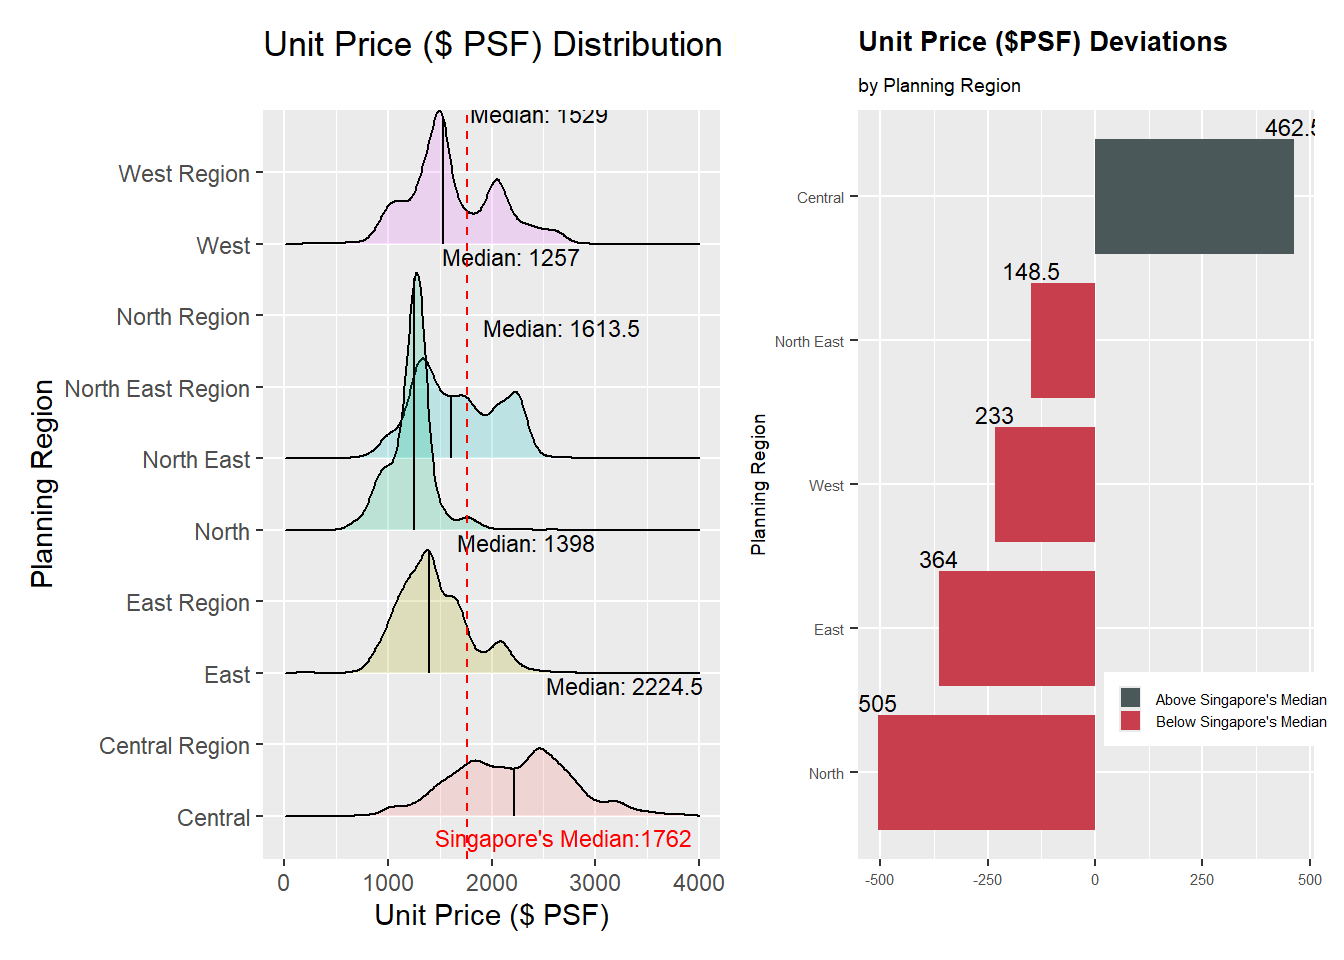
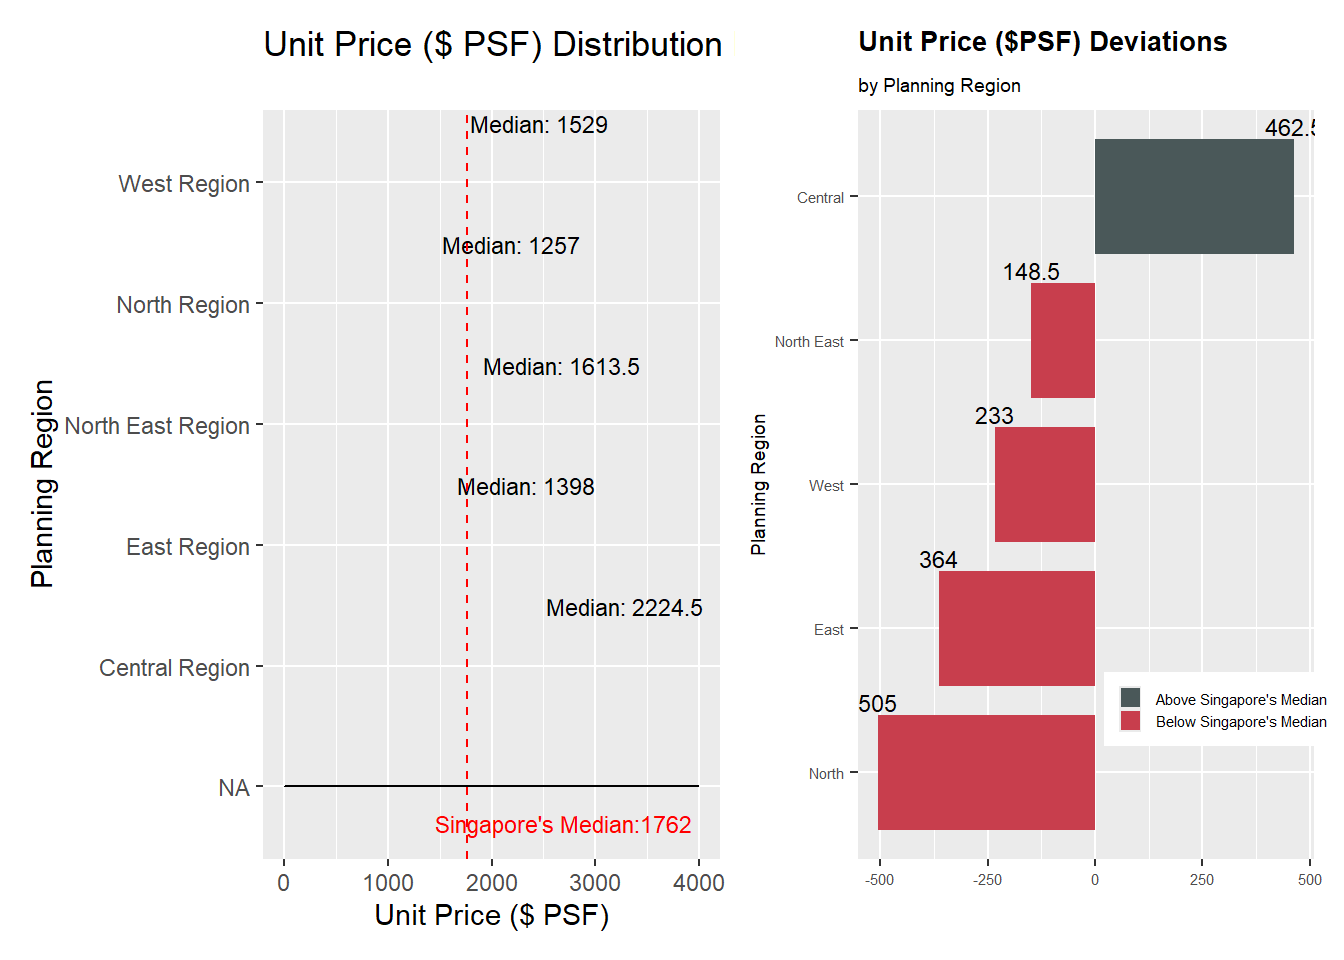
commit

diff --git a/_site/Take-home Exercise/Take-home_Ex02/Take-home_Ex02.html b/_site/Take-home Exercise/Take-home_Ex02/Take-home_Ex02.html
@@ -573,7 +573,7 @@ pre > code.sourceCode > span > a:first-child::before { text-decoration: underlin
 <span id="cb7-2"><a href="#cb7-2" aria-hidden="true" tabindex="-1"></a>  <span class="fu">mutate</span>(<span class="st">`</span><span class="at">Planning Region</span><span class="st">`</span> <span class="ot">=</span> <span class="fu">factor</span>(<span class="st">`</span><span class="at">Planning Region</span><span class="st">`</span>, <span class="at">levels =</span> median_values<span class="sc">$</span><span class="st">`</span><span class="at">Planning Region</span><span class="st">`</span>[<span class="fu">order</span>(median_values<span class="sc">$</span>median_value)]))</span></code><button title="Copy to Clipboard" class="code-copy-button"><i class="bi"></i></button></pre></div>
 </div>
 <div class="cell">
-<div class="sourceCode cell-code" id="cb8"><pre class="sourceCode r code-with-copy"><code class="sourceCode r"><span id="cb8-1"><a href="#cb8-1" aria-hidden="true" tabindex="-1"></a>p1 <span class="ot">&lt;-</span> <span class="fu">ggplot</span>(combined_ds, </span>
+<div class="sourceCode cell-code" id="cb8"><pre class="sourceCode r code-with-copy"><code class="sourceCode r"><span id="cb8-1"><a href="#cb8-1" aria-hidden="true" tabindex="-1"></a>p1 <span class="ot">&lt;-</span> <span class="fu">ggplot</span>(combined_ds1, </span>
 <span id="cb8-2"><a href="#cb8-2" aria-hidden="true" tabindex="-1"></a>       <span class="fu">aes</span>(<span class="at">x =</span> <span class="st">`</span><span class="at">Unit Price ($ PSF)</span><span class="st">`</span>, </span>
 <span id="cb8-3"><a href="#cb8-3" aria-hidden="true" tabindex="-1"></a>           <span class="at">y =</span> <span class="st">`</span><span class="at">Planning Region</span><span class="st">`</span>,</span>
 <span id="cb8-4"><a href="#cb8-4" aria-hidden="true" tabindex="-1"></a>           <span class="at">fill =</span> <span class="st">`</span><span class="at">Planning Region</span><span class="st">`</span>)) <span class="sc">+</span></span>
@@ -593,7 +593,15 @@ pre > code.sourceCode > span > a:first-child::before { text-decoration: underlin
 <span id="cb8-18"><a href="#cb8-18" aria-hidden="true" tabindex="-1"></a>  <span class="fu">annotate</span>(<span class="st">"text"</span>, <span class="at">x=</span><span class="dv">2700</span>, <span class="at">y=</span><span class="fl">0.7</span>, <span class="at">label=</span><span class="fu">paste0</span>(<span class="st">"Singapore's Median:"</span>,<span class="fu">median</span>(combined_ds<span class="sc">$</span><span class="st">`</span><span class="at">Unit Price ($ PSF)</span><span class="st">`</span>)), </span>
 <span id="cb8-19"><a href="#cb8-19" aria-hidden="true" tabindex="-1"></a>           <span class="at">size=</span><span class="dv">3</span>, <span class="at">color=</span><span class="st">"red"</span>) <span class="sc">+</span></span>
 <span id="cb8-20"><a href="#cb8-20" aria-hidden="true" tabindex="-1"></a>   <span class="fu">guides</span>(<span class="at">fill =</span> <span class="cn">FALSE</span>) <span class="sc">+</span> <span class="co"># Remove legend for Planning Region</span></span>
-<span id="cb8-21"><a href="#cb8-21" aria-hidden="true" tabindex="-1"></a>  <span class="fu">xlim</span>(<span class="dv">0</span>, <span class="dv">4000</span>) <span class="co"># Limit x-axis to 4000</span></span></code><button title="Copy to Clipboard" class="code-copy-button"><i class="bi"></i></button></pre></div>
+<span id="cb8-21"><a href="#cb8-21" aria-hidden="true" tabindex="-1"></a>  <span class="fu">xlim</span>(<span class="dv">0</span>, <span class="dv">4000</span>) <span class="co"># Limit x-axis to 4000</span></span>
+<span id="cb8-22"><a href="#cb8-22" aria-hidden="true" tabindex="-1"></a>p1</span></code><button title="Copy to Clipboard" class="code-copy-button"><i class="bi"></i></button></pre></div>
+<div class="cell-output-display">
+<div>
+<figure class="figure">
+<p><img src="Take-home_Ex02_files/figure-html/unnamed-chunk-9-1.png" class="img-fluid figure-img" width="672"></p>
+</figure>
+</div>
+</div>
 </div>
 <div class="cell">
 <div class="sourceCode cell-code" id="cb9"><pre class="sourceCode r code-with-copy"><code class="sourceCode r"><span id="cb9-1"><a href="#cb9-1" aria-hidden="true" tabindex="-1"></a><span class="co"># Classifying the Median into Above and Below Singapore's Median</span></span>
